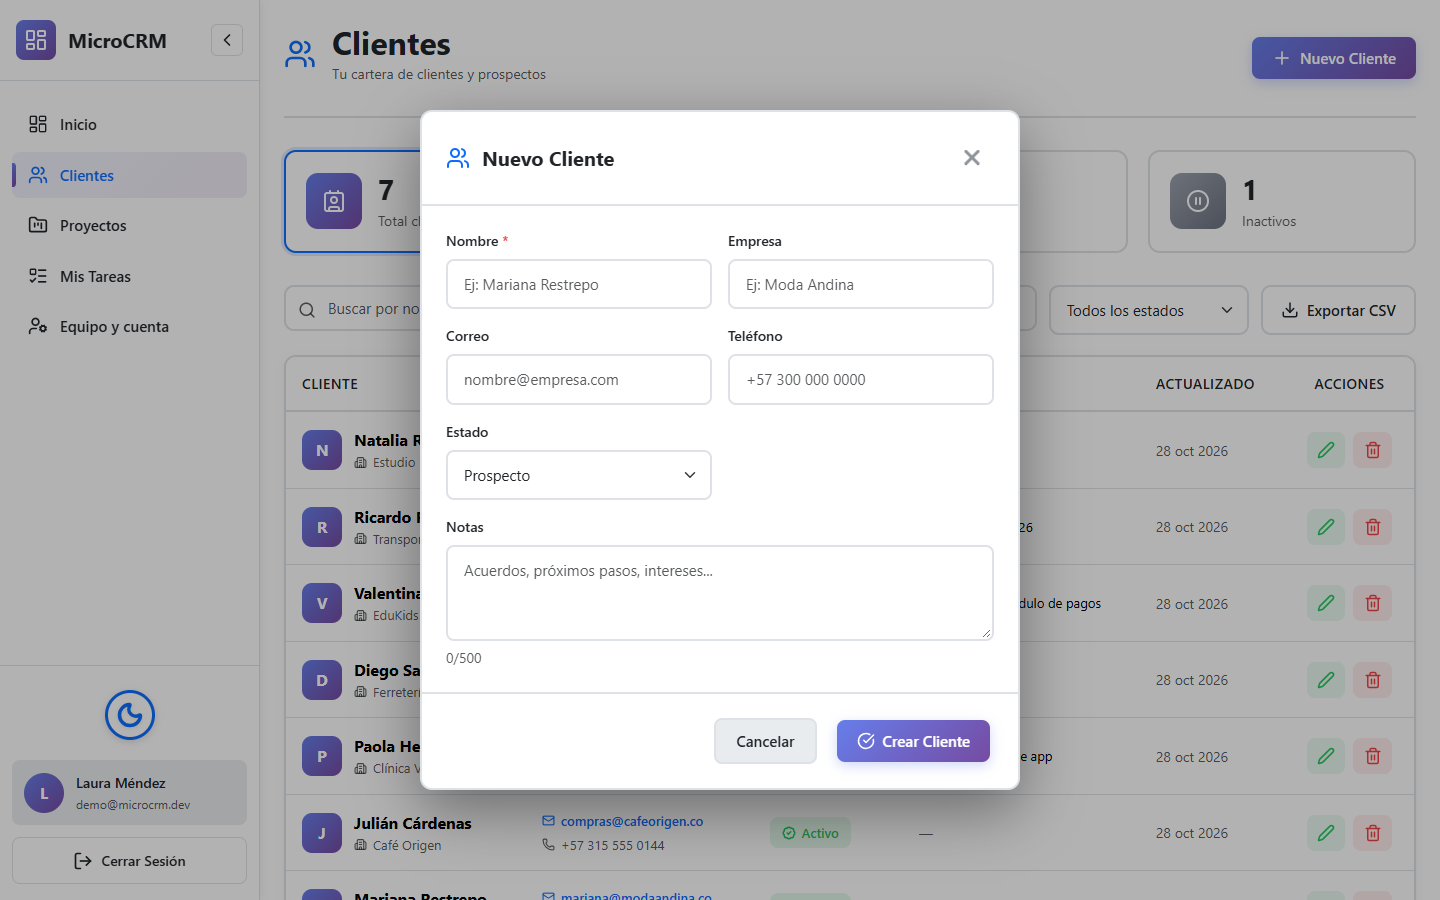
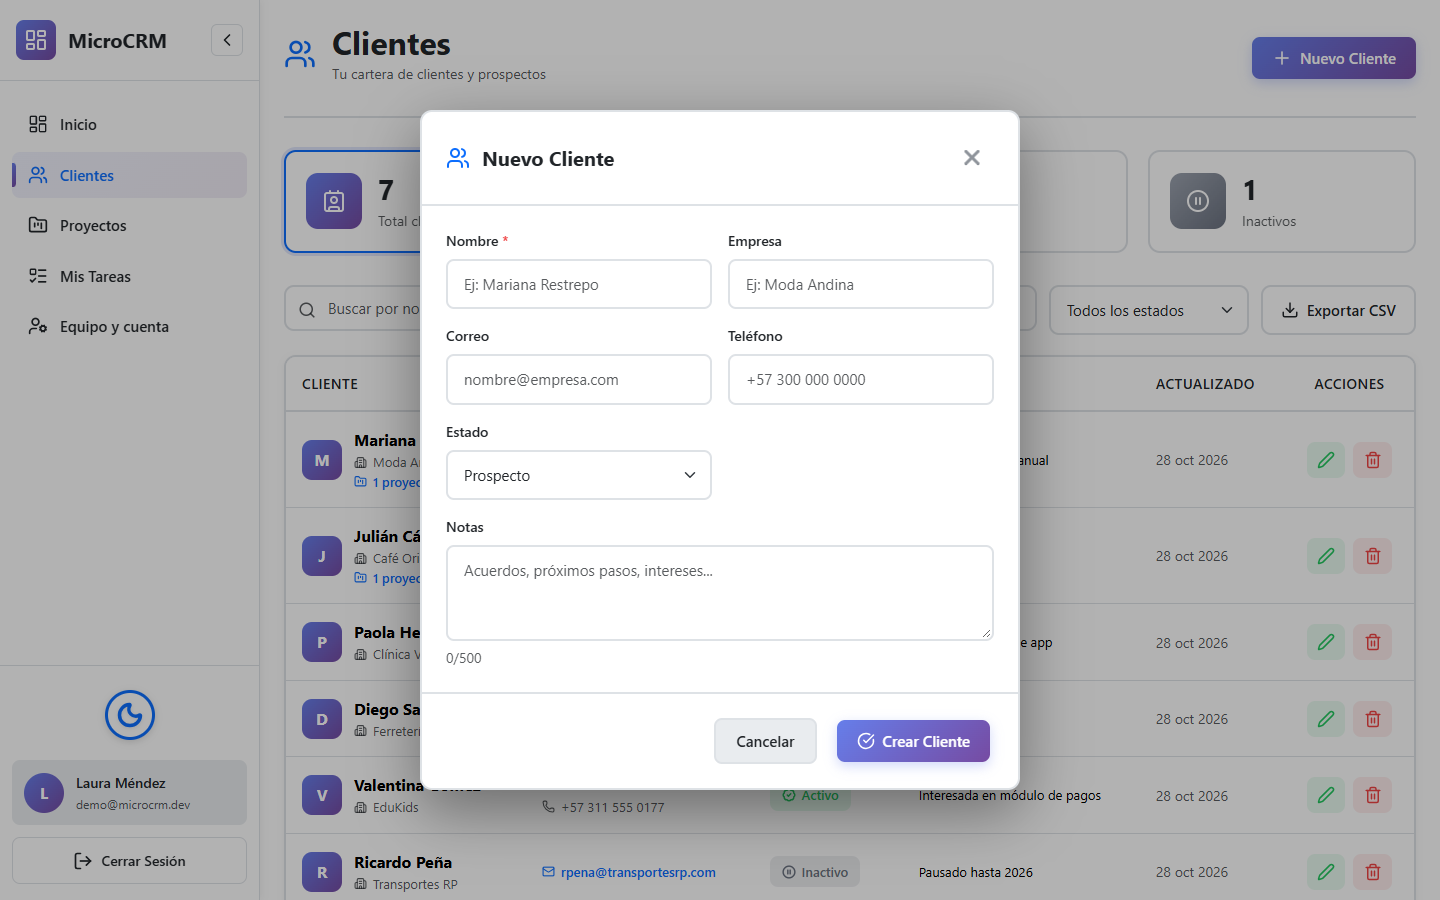
docs: Relacion cliente-proyecto en el README y capturas actualizadas

diff --git a/README.md b/README.md
@@ -52,7 +52,7 @@ Está pensado para freelancers, agencias y equipos de desarrollo de 2 a 15 perso
 |---|---|
 | 🏠 **Dashboard** | Proyectos propios y como colaborador, tareas abiertas y atrasadas, % de avance, clientes por estado, próximos vencimientos y proyectos recientes |
 | 👥 **Clientes** | CRUD completo, embudo prospecto / activo / inactivo, búsqueda, filtros, paginación, notas y exportación a CSV |
-| 📁 **Proyectos** | Propios y compartidos, edición en línea, roles por proyecto (Administrador, Desarrollador, Revisor o personalizados) |
+| 📁 **Proyectos** | Propios y compartidos, vinculados a un cliente, edición en línea y roles por proyecto (Administrador, Desarrollador, Revisor o personalizados) |
 | 🗂 **Kanban** | 5 columnas (Por hacer → En desarrollo → Atrasado → En revisión → Hecho) con **arrastrar y soltar** y acciones según el rol |
 | ✅ **Mis Tareas** | Todas tus tareas de todos los proyectos, filtros por estado, botón para avanzar al siguiente paso y exportación a CSV |
 | ⏰ **Automatización** | Un scheduler marca cada hora como *atrasadas* las tareas vencidas |
@@ -134,7 +134,7 @@ python -m app.seed                 # datos de demo (opcional)
 uvicorn app.main:app --reload      # http://localhost:8000/api/docs
 ```
 
-Las tablas se crean al iniciar la API. Si prefieres crearlas a mano en MySQL, usa [`microcrm_db_script.sql`](project/backend/microcrm_db_script.sql).
+Las tablas se crean al iniciar la API, y las bases de versiones anteriores se actualizan solas: las columnas nuevas, como `projects.client_id`, se agregan al arrancar sin tocar los datos. Si prefieres crear la base a mano en MySQL, usa [`microcrm_db_script.sql`](project/backend/microcrm_db_script.sql).
 
 ### Frontend (React + Vite)
 
@@ -198,6 +198,7 @@ MicroCRM/
 erDiagram
     users ||--o{ projects : "crea"
     users ||--o{ clients : "gestiona"
+    clients |o--o{ projects : "encarga"
     users ||--o{ project_members : "participa"
     users |o--o{ tasks : "asignada a"
     projects ||--o{ project_roles : "define"
@@ -225,6 +226,7 @@ erDiagram
     projects {
         int id PK
         int id_user FK "creador"
+        int client_id FK "opcional"
         varchar name
         varchar description
     }
@@ -367,7 +369,7 @@ npm run build
 - [x] Docker Compose y datos de demo
 - [x] Arrastrar y soltar tareas en el Kanban
 - [x] Exportar clientes y tareas a CSV
-- [ ] Vincular clientes con proyectos
+- [x] Vincular clientes con proyectos
 - [ ] Notificaciones por correo de tareas por vencer
 - [ ] Migraciones de base de datos con Alembic
 
